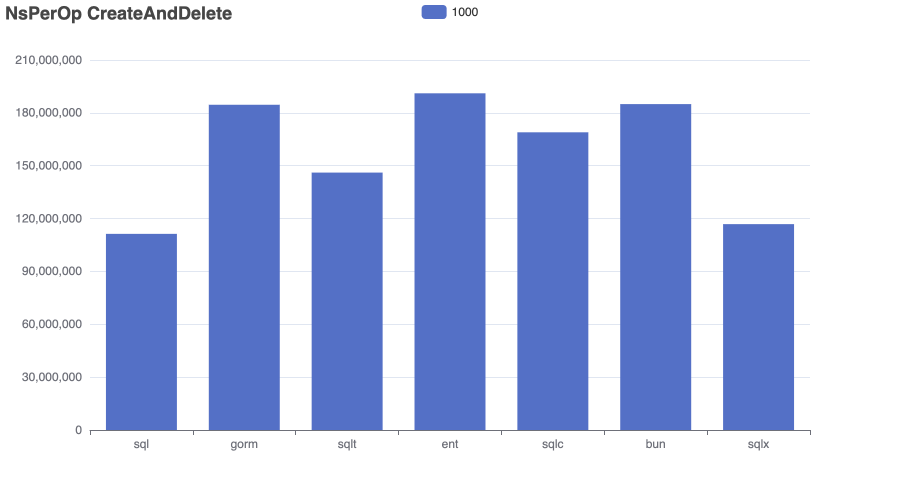
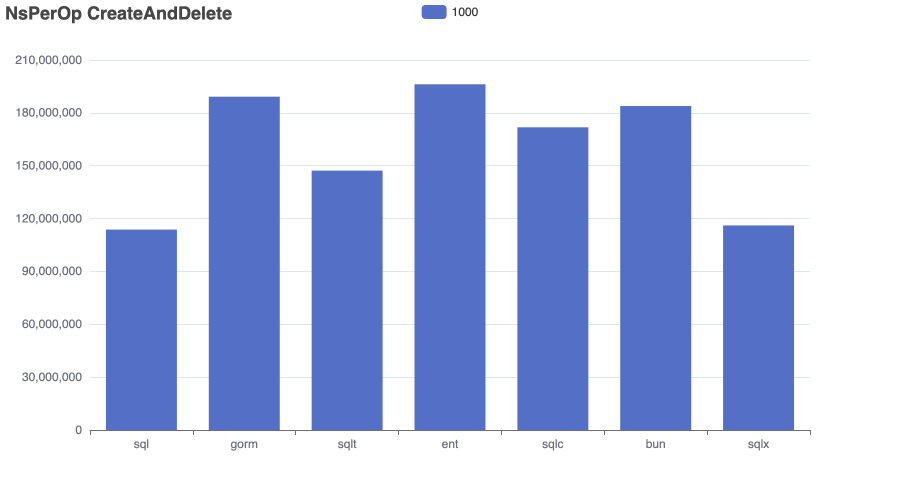
update charts

diff --git a/sqlt-flix/sqlt-flix.go b/sqlt-flix/sqlt-flix.go
@@ -73,6 +73,7 @@ var (
 					({{ $p }})
 				{{ end }}
 				ON CONFLICT (name) DO UPDATE SET name = EXCLUDED.name RETURNING id;
+				{{ ScanInt64 "" }}
 			{{ end }}
 		`)),
 		sqlt.All[benchflix.Movie, int64](sqlt.Name("ActorIDs"), sqlt.Parse(`
@@ -83,6 +84,7 @@ var (
 					({{ $p }})
 				{{ end }}
 				ON CONFLICT (name) DO UPDATE SET name = EXCLUDED.name RETURNING id;
+				{{ ScanInt64 "" }}
 			{{ end }}
 		`)),
 		sqlt.Exec[benchflix.Movie](sqlt.Parse(`
@@ -111,6 +113,7 @@ var (
 					({{ $p }})
 				{{ end }}
 				ON CONFLICT (name) DO UPDATE SET name = EXCLUDED.name RETURNING id;
+				{{ ScanInt64 "" }}
 			{{ end }}
 		`)),
 		sqlt.Exec[benchflix.Movie](sqlt.Parse(`
@@ -130,6 +133,7 @@ var (
 					({{ $p }})
 				{{ end }}
 				ON CONFLICT (name) DO UPDATE SET name = EXCLUDED.name RETURNING id;
+				{{ ScanInt64 "" }}
 			{{ end }}
 		`)),
 		sqlt.Exec[benchflix.Movie](sqlt.Parse(`

diff --git a/README.md b/README.md
@@ -32,85 +32,85 @@ goos: darwin
 goarch: arm64
 pkg: github.com/wroge/bench-flix
 cpu: Apple M3 Pro
-BenchmarkSchemaAndCreate/10_sql-12         	      12	  94747483 ns/op	10293553 B/op	  252126 allocs/op
-BenchmarkSchemaAndCreate/100_sql-12        	      12	  92439802 ns/op	10274315 B/op	  252067 allocs/op
-BenchmarkSchemaAndCreate/1000_sql-12       	      12	  92890972 ns/op	10271514 B/op	  252050 allocs/op
-BenchmarkSchemaAndCreate/10_gorm-12        	       6	 187748576 ns/op	90605878 B/op	 1125615 allocs/op
-BenchmarkSchemaAndCreate/100_gorm-12       	       6	 187661930 ns/op	90593441 B/op	 1125498 allocs/op
-BenchmarkSchemaAndCreate/1000_gorm-12      	       6	 186173944 ns/op	90604456 B/op	 1125680 allocs/op
-BenchmarkSchemaAndCreate/10_sqlt-12        	       9	 123606148 ns/op	21101958 B/op	  548847 allocs/op
-BenchmarkSchemaAndCreate/100_sqlt-12       	       9	 120641694 ns/op	21159453 B/op	  549308 allocs/op
-BenchmarkSchemaAndCreate/1000_sqlt-12      	       9	 121483732 ns/op	21128496 B/op	  549134 allocs/op
-BenchmarkSchemaAndCreate/10_ent-12         	       6	 168642896 ns/op	40377832 B/op	 1002504 allocs/op
-BenchmarkSchemaAndCreate/100_ent-12        	       6	 172000257 ns/op	40356352 B/op	 1002256 allocs/op
-BenchmarkSchemaAndCreate/1000_ent-12       	       6	 172123875 ns/op	40344722 B/op	 1002214 allocs/op
-BenchmarkSchemaAndCreate/10_sqlc-12        	       7	 150208357 ns/op	14914244 B/op	  463399 allocs/op
-BenchmarkSchemaAndCreate/100_sqlc-12       	       7	 150649024 ns/op	14890195 B/op	  463187 allocs/op
-BenchmarkSchemaAndCreate/1000_sqlc-12      	       7	 152149202 ns/op	14881841 B/op	  463105 allocs/op
-BenchmarkSchemaAndCreate/10_bun-12         	       7	 164159810 ns/op	82727981 B/op	  428286 allocs/op
-BenchmarkSchemaAndCreate/100_bun-12        	       7	 164568946 ns/op	82718881 B/op	  428281 allocs/op
-BenchmarkSchemaAndCreate/1000_bun-12       	       7	 163267958 ns/op	82732716 B/op	  428422 allocs/op
-BenchmarkSchemaAndCreate/10_sqlx-12        	      12	  96329257 ns/op	11195435 B/op	  290384 allocs/op
-BenchmarkSchemaAndCreate/100_sqlx-12       	      12	  95201597 ns/op	11210752 B/op	  290518 allocs/op
-BenchmarkSchemaAndCreate/1000_sqlx-12      	      12	  92251628 ns/op	11257504 B/op	  290930 allocs/op
-BenchmarkCreateAndDelete/10_sql-12         	    1333	    898060 ns/op	   99334 B/op	    2322 allocs/op
-BenchmarkCreateAndDelete/100_sql-12        	     100	  10415371 ns/op	 1073461 B/op	   25805 allocs/op
-BenchmarkCreateAndDelete/1000_sql-12       	       9	 111320505 ns/op	10600969 B/op	  263450 allocs/op
-BenchmarkCreateAndDelete/10_gorm-12        	     752	   1587115 ns/op	  856787 B/op	   10630 allocs/op
-BenchmarkCreateAndDelete/100_gorm-12       	      63	  17774930 ns/op	 9311363 B/op	  115741 allocs/op
-BenchmarkCreateAndDelete/1000_gorm-12      	       6	 184593875 ns/op	93450822 B/op	 1160658 allocs/op
-BenchmarkCreateAndDelete/10_sqlt-12        	     970	   1231880 ns/op	  199993 B/op	    5174 allocs/op
-BenchmarkCreateAndDelete/100_sqlt-12       	      85	  14055080 ns/op	 2159466 B/op	   56188 allocs/op
-BenchmarkCreateAndDelete/1000_sqlt-12      	       7	 146101262 ns/op	21441068 B/op	  560566 allocs/op
-BenchmarkCreateAndDelete/10_ent-12         	     697	   1715951 ns/op	  408148 B/op	    9917 allocs/op
-BenchmarkCreateAndDelete/100_ent-12        	      60	  19153415 ns/op	 4363839 B/op	  106894 allocs/op
-BenchmarkCreateAndDelete/1000_ent-12       	       6	 191095333 ns/op	42286826 B/op	 1044572 allocs/op
-BenchmarkCreateAndDelete/10_sqlc-12        	     819	   1488956 ns/op	  148099 B/op	    4534 allocs/op
-BenchmarkCreateAndDelete/100_sqlc-12       	      69	  16533521 ns/op	 1585974 B/op	   48948 allocs/op
-BenchmarkCreateAndDelete/1000_sqlc-12      	       6	 168960792 ns/op	15243298 B/op	  475650 allocs/op
-BenchmarkCreateAndDelete/10_bun-12         	     730	   1629372 ns/op	  839396 B/op	    4207 allocs/op
-BenchmarkCreateAndDelete/100_bun-12        	      62	  18261066 ns/op	 8988730 B/op	   45271 allocs/op
-BenchmarkCreateAndDelete/1000_bun-12       	       6	 184972465 ns/op	87590736 B/op	  441857 allocs/op
-BenchmarkCreateAndDelete/10_sqlx-12        	    1261	    948791 ns/op	  107493 B/op	    2688 allocs/op
-BenchmarkCreateAndDelete/100_sqlx-12       	     100	  10934012 ns/op	 1161774 B/op	   29714 allocs/op
-BenchmarkCreateAndDelete/1000_sqlx-12      	       9	 116843819 ns/op	11465091 B/op	  301248 allocs/op
-BenchmarkQuery/Complex_sql-12              	     147	   8085473 ns/op	    8418 B/op	     101 allocs/op
-BenchmarkQuery/Complex_gorm-12             	     208	   5817499 ns/op	   74887 B/op	    1154 allocs/op
-BenchmarkQuery/Complex_sqlt-12             	     145	   8332847 ns/op	    5212 B/op	     112 allocs/op
-BenchmarkQuery/Complex_ent-12              	      54	  21723368 ns/op	   64611 B/op	    1282 allocs/op
-BenchmarkQuery/Complex_sqlc-12             	     100	  10538061 ns/op	    3854 B/op	      91 allocs/op
-BenchmarkQuery/Complex_bun-12              	     142	   8331094 ns/op	   41210 B/op	     462 allocs/op
-BenchmarkQuery/Complex_sqlx-12             	     144	   8254198 ns/op	    9095 B/op	     103 allocs/op
-BenchmarkQuery/Simple_sql-12               	    2894	    415108 ns/op	    3922 B/op	      83 allocs/op
-BenchmarkQuery/Simple_gorm-12              	    2600	    465849 ns/op	   61580 B/op	     978 allocs/op
-BenchmarkQuery/Simple_sqlt-12              	    2889	    416883 ns/op	    4107 B/op	     103 allocs/op
-BenchmarkQuery/Simple_ent-12               	    2758	    435207 ns/op	   32214 B/op	     822 allocs/op
-BenchmarkQuery/Simple_sqlc-12              	    1993	    595026 ns/op	    3490 B/op	      77 allocs/op
-BenchmarkQuery/Simple_bun-12               	    2716	    442086 ns/op	   36639 B/op	     406 allocs/op
-BenchmarkQuery/Simple_sqlx-12              	    2870	    416838 ns/op	    4626 B/op	      85 allocs/op
-BenchmarkQuery/10_sql-12                   	     984	   1209962 ns/op	   21239 B/op	     461 allocs/op
-BenchmarkQuery/10_gorm-12                  	     747	   1597731 ns/op	  178377 B/op	    3798 allocs/op
-BenchmarkQuery/10_sqlt-12                  	     986	   1211179 ns/op	   23030 B/op	     529 allocs/op
-BenchmarkQuery/10_ent-12                   	    1276	    934232 ns/op	   98819 B/op	    2269 allocs/op
-BenchmarkQuery/10_sqlc-12                  	     633	   1885310 ns/op	   23617 B/op	     425 allocs/op
-BenchmarkQuery/10_bun-12                   	    1264	    923224 ns/op	   71755 B/op	    1741 allocs/op
-BenchmarkQuery/10_sqlx-12                  	     985	   1208230 ns/op	   26268 B/op	     436 allocs/op
-BenchmarkQuery/100_sql-12                  	     292	   4070899 ns/op	  186909 B/op	    4254 allocs/op
-BenchmarkQuery/100_gorm-12                 	     314	   3784905 ns/op	 1534801 B/op	   30597 allocs/op
-BenchmarkQuery/100_sqlt-12                 	     292	   4099885 ns/op	  203563 B/op	    4766 allocs/op
-BenchmarkQuery/100_ent-12                  	     517	   2344933 ns/op	  772213 B/op	   16487 allocs/op
-BenchmarkQuery/100_sqlc-12                 	     240	   4973996 ns/op	  207996 B/op	    3861 allocs/op
-BenchmarkQuery/100_bun-12                  	     535	   2229148 ns/op	  436369 B/op	   15238 allocs/op
-BenchmarkQuery/100_sqlx-12                 	     292	   4075369 ns/op	  228297 B/op	    3959 allocs/op
-BenchmarkRead/sql-12                       	   45832	     25445 ns/op	    2384 B/op	      69 allocs/op
-BenchmarkRead/gorm-12                      	   13706	     87428 ns/op	   60054 B/op	    1004 allocs/op
-BenchmarkRead/sqlt-12                      	   43888	     28266 ns/op	    3649 B/op	      93 allocs/op
-BenchmarkRead/ent-12                       	   20515	     59114 ns/op	   33622 B/op	     848 allocs/op
-BenchmarkRead/sqlc-12                      	   33702	     32767 ns/op	    2296 B/op	      67 allocs/op
-BenchmarkRead/bun-12                       	   25022	     47558 ns/op	   36543 B/op	     414 allocs/op
-BenchmarkRead/sqlx-12                      	   46190	     25899 ns/op	    2784 B/op	      70 allocs/op
+BenchmarkSchemaAndCreate/10_sql-12         	      12	  94196073 ns/op	10294330 B/op	  252152 allocs/op
+BenchmarkSchemaAndCreate/100_sql-12        	      12	  92880080 ns/op	10291590 B/op	  252188 allocs/op
+BenchmarkSchemaAndCreate/1000_sql-12       	      12	  93408510 ns/op	10267722 B/op	  252029 allocs/op
+BenchmarkSchemaAndCreate/10_gorm-12        	       6	 188924660 ns/op	90618488 B/op	 1125730 allocs/op
+BenchmarkSchemaAndCreate/100_gorm-12       	       6	 187845125 ns/op	90604842 B/op	 1125602 allocs/op
+BenchmarkSchemaAndCreate/1000_gorm-12      	       6	 188902486 ns/op	90606962 B/op	 1125639 allocs/op
+BenchmarkSchemaAndCreate/10_sqlt-12        	       8	 126694031 ns/op	20473563 B/op	  530580 allocs/op
+BenchmarkSchemaAndCreate/100_sqlt-12       	       8	 126400896 ns/op	20496371 B/op	  530692 allocs/op
+BenchmarkSchemaAndCreate/1000_sqlt-12      	       8	 127246136 ns/op	20501473 B/op	  530734 allocs/op
+BenchmarkSchemaAndCreate/10_ent-12         	       6	 176274472 ns/op	40313657 B/op	 1001936 allocs/op
+BenchmarkSchemaAndCreate/100_ent-12        	       6	 174595410 ns/op	40322941 B/op	 1001955 allocs/op
+BenchmarkSchemaAndCreate/1000_ent-12       	       6	 175991452 ns/op	40307408 B/op	 1001868 allocs/op
+BenchmarkSchemaAndCreate/10_sqlc-12        	       7	 156469798 ns/op	14808628 B/op	  462481 allocs/op
+BenchmarkSchemaAndCreate/100_sqlc-12       	       7	 152873762 ns/op	14809366 B/op	  462476 allocs/op
+BenchmarkSchemaAndCreate/1000_sqlc-12      	       7	 152062851 ns/op	14789282 B/op	  462322 allocs/op
+BenchmarkSchemaAndCreate/10_bun-12         	       7	 163542089 ns/op	82702146 B/op	  428069 allocs/op
+BenchmarkSchemaAndCreate/100_bun-12        	       7	 163814161 ns/op	82698749 B/op	  428065 allocs/op
+BenchmarkSchemaAndCreate/1000_bun-12       	       7	 164537994 ns/op	82706232 B/op	  428126 allocs/op
+BenchmarkSchemaAndCreate/10_sqlx-12        	      12	  95848306 ns/op	11195495 B/op	  290382 allocs/op
+BenchmarkSchemaAndCreate/100_sqlx-12       	      12	  95590778 ns/op	11197003 B/op	  290402 allocs/op
+BenchmarkSchemaAndCreate/1000_sqlx-12      	      12	  95747701 ns/op	11199200 B/op	  290397 allocs/op
+BenchmarkCreateAndDelete/10_sql-12         	    1297	    919251 ns/op	   98696 B/op	    2316 allocs/op
+BenchmarkCreateAndDelete/100_sql-12        	     100	  10695665 ns/op	 1067854 B/op	   25756 allocs/op
+BenchmarkCreateAndDelete/1000_sql-12       	       9	 113746597 ns/op	10545616 B/op	  262962 allocs/op
+BenchmarkCreateAndDelete/10_gorm-12        	     720	   1656786 ns/op	  855713 B/op	   10621 allocs/op
+BenchmarkCreateAndDelete/100_gorm-12       	      63	  18514712 ns/op	 9301884 B/op	  115659 allocs/op
+BenchmarkCreateAndDelete/1000_gorm-12      	       6	 189181049 ns/op	93419381 B/op	 1160390 allocs/op
+BenchmarkCreateAndDelete/10_sqlt-12        	     956	   1242680 ns/op	  194601 B/op	    5002 allocs/op
+BenchmarkCreateAndDelete/100_sqlt-12       	      84	  14155303 ns/op	 2095987 B/op	   54327 allocs/op
+BenchmarkCreateAndDelete/1000_sqlt-12      	       7	 147226720 ns/op	20829112 B/op	  542419 allocs/op
+BenchmarkCreateAndDelete/10_ent-12         	     664	   1785120 ns/op	  407657 B/op	    9913 allocs/op
+BenchmarkCreateAndDelete/100_ent-12        	      60	  19658192 ns/op	 4357761 B/op	  106841 allocs/op
+BenchmarkCreateAndDelete/1000_ent-12       	       6	 196212812 ns/op	42218208 B/op	 1043952 allocs/op
+BenchmarkCreateAndDelete/10_sqlc-12        	     789	   1525165 ns/op	  145180 B/op	    4509 allocs/op
+BenchmarkCreateAndDelete/100_sqlc-12       	      70	  16997825 ns/op	 1566776 B/op	   48785 allocs/op
+BenchmarkCreateAndDelete/1000_sqlc-12      	       6	 171795681 ns/op	15109173 B/op	  474503 allocs/op
+BenchmarkCreateAndDelete/10_bun-12         	     730	   1627823 ns/op	  838894 B/op	    4204 allocs/op
+BenchmarkCreateAndDelete/100_bun-12        	      62	  18216112 ns/op	 8987257 B/op	   45259 allocs/op
+BenchmarkCreateAndDelete/1000_bun-12       	       6	 183873819 ns/op	87612848 B/op	  442070 allocs/op
+BenchmarkCreateAndDelete/10_sqlx-12        	    1269	    941624 ns/op	  107584 B/op	    2688 allocs/op
+BenchmarkCreateAndDelete/100_sqlx-12       	     100	  10906155 ns/op	 1162192 B/op	   29717 allocs/op
+BenchmarkCreateAndDelete/1000_sqlx-12      	       9	 116101088 ns/op	11470122 B/op	  301295 allocs/op
+BenchmarkQuery/Complex_sql-12              	     154	   7766633 ns/op	    8384 B/op	     101 allocs/op
+BenchmarkQuery/Complex_gorm-12             	     218	   5464971 ns/op	   74869 B/op	    1154 allocs/op
+BenchmarkQuery/Complex_sqlt-12             	     154	   7701312 ns/op	    5335 B/op	     112 allocs/op
+BenchmarkQuery/Complex_ent-12              	      57	  20886431 ns/op	   64595 B/op	    1282 allocs/op
+BenchmarkQuery/Complex_sqlc-12             	     100	  10146848 ns/op	    3859 B/op	      91 allocs/op
+BenchmarkQuery/Complex_bun-12              	     152	   7822772 ns/op	   41200 B/op	     462 allocs/op
+BenchmarkQuery/Complex_sqlx-12             	     151	   7827679 ns/op	    9119 B/op	     103 allocs/op
+BenchmarkQuery/Simple_sql-12               	    2928	    408987 ns/op	    3922 B/op	      83 allocs/op
+BenchmarkQuery/Simple_gorm-12              	    2538	    468324 ns/op	   61581 B/op	     978 allocs/op
+BenchmarkQuery/Simple_sqlt-12              	    2905	    412237 ns/op	    4236 B/op	     103 allocs/op
+BenchmarkQuery/Simple_ent-12               	    2757	    431266 ns/op	   32214 B/op	     822 allocs/op
+BenchmarkQuery/Simple_sqlc-12              	    2022	    592639 ns/op	    3490 B/op	      77 allocs/op
+BenchmarkQuery/Simple_bun-12               	    2767	    436513 ns/op	   36640 B/op	     406 allocs/op
+BenchmarkQuery/Simple_sqlx-12              	    2911	    410672 ns/op	    4626 B/op	      85 allocs/op
+BenchmarkQuery/10_sql-12                   	    1045	   1141320 ns/op	   21222 B/op	     461 allocs/op
+BenchmarkQuery/10_gorm-12                  	     808	   1488820 ns/op	  178400 B/op	    3798 allocs/op
+BenchmarkQuery/10_sqlt-12                  	    1035	   1157694 ns/op	   23164 B/op	     529 allocs/op
+BenchmarkQuery/10_ent-12                   	    1328	    905964 ns/op	   98822 B/op	    2269 allocs/op
+BenchmarkQuery/10_sqlc-12                  	     644	   1857894 ns/op	   23631 B/op	     425 allocs/op
+BenchmarkQuery/10_bun-12                   	    1376	    882523 ns/op	   71761 B/op	    1741 allocs/op
+BenchmarkQuery/10_sqlx-12                  	     982	   1192488 ns/op	   26279 B/op	     436 allocs/op
+BenchmarkQuery/100_sql-12                  	     295	   4343464 ns/op	  186603 B/op	    4254 allocs/op
+BenchmarkQuery/100_gorm-12                 	     321	   3709099 ns/op	 1533612 B/op	   30597 allocs/op
+BenchmarkQuery/100_sqlt-12                 	     304	   3917300 ns/op	  204485 B/op	    4766 allocs/op
+BenchmarkQuery/100_ent-12                  	     528	   2246349 ns/op	  772296 B/op	   16487 allocs/op
+BenchmarkQuery/100_sqlc-12                 	     250	   4820302 ns/op	  206505 B/op	    3861 allocs/op
+BenchmarkQuery/100_bun-12                  	     541	   2202544 ns/op	  436344 B/op	   15238 allocs/op
+BenchmarkQuery/100_sqlx-12                 	     308	   3924037 ns/op	  228450 B/op	    3959 allocs/op
+BenchmarkRead/sql-12                       	   48355	     24683 ns/op	    2384 B/op	      69 allocs/op
+BenchmarkRead/gorm-12                      	   14030	     85120 ns/op	   60053 B/op	    1004 allocs/op
+BenchmarkRead/sqlt-12                      	   45826	     26018 ns/op	    3777 B/op	      93 allocs/op
+BenchmarkRead/ent-12                       	   21158	     57016 ns/op	   33623 B/op	     848 allocs/op
+BenchmarkRead/sqlc-12                      	   39325	     30436 ns/op	    2296 B/op	      67 allocs/op
+BenchmarkRead/bun-12                       	   26485	     45369 ns/op	   36543 B/op	     414 allocs/op
+BenchmarkRead/sqlx-12                      	   46398	     25422 ns/op	    2784 B/op	      70 allocs/op
 PASS
-ok  	github.com/wroge/bench-flix	173.256s
+ok  	github.com/wroge/bench-flix	173.478s
 ```
 
 ## Charts
